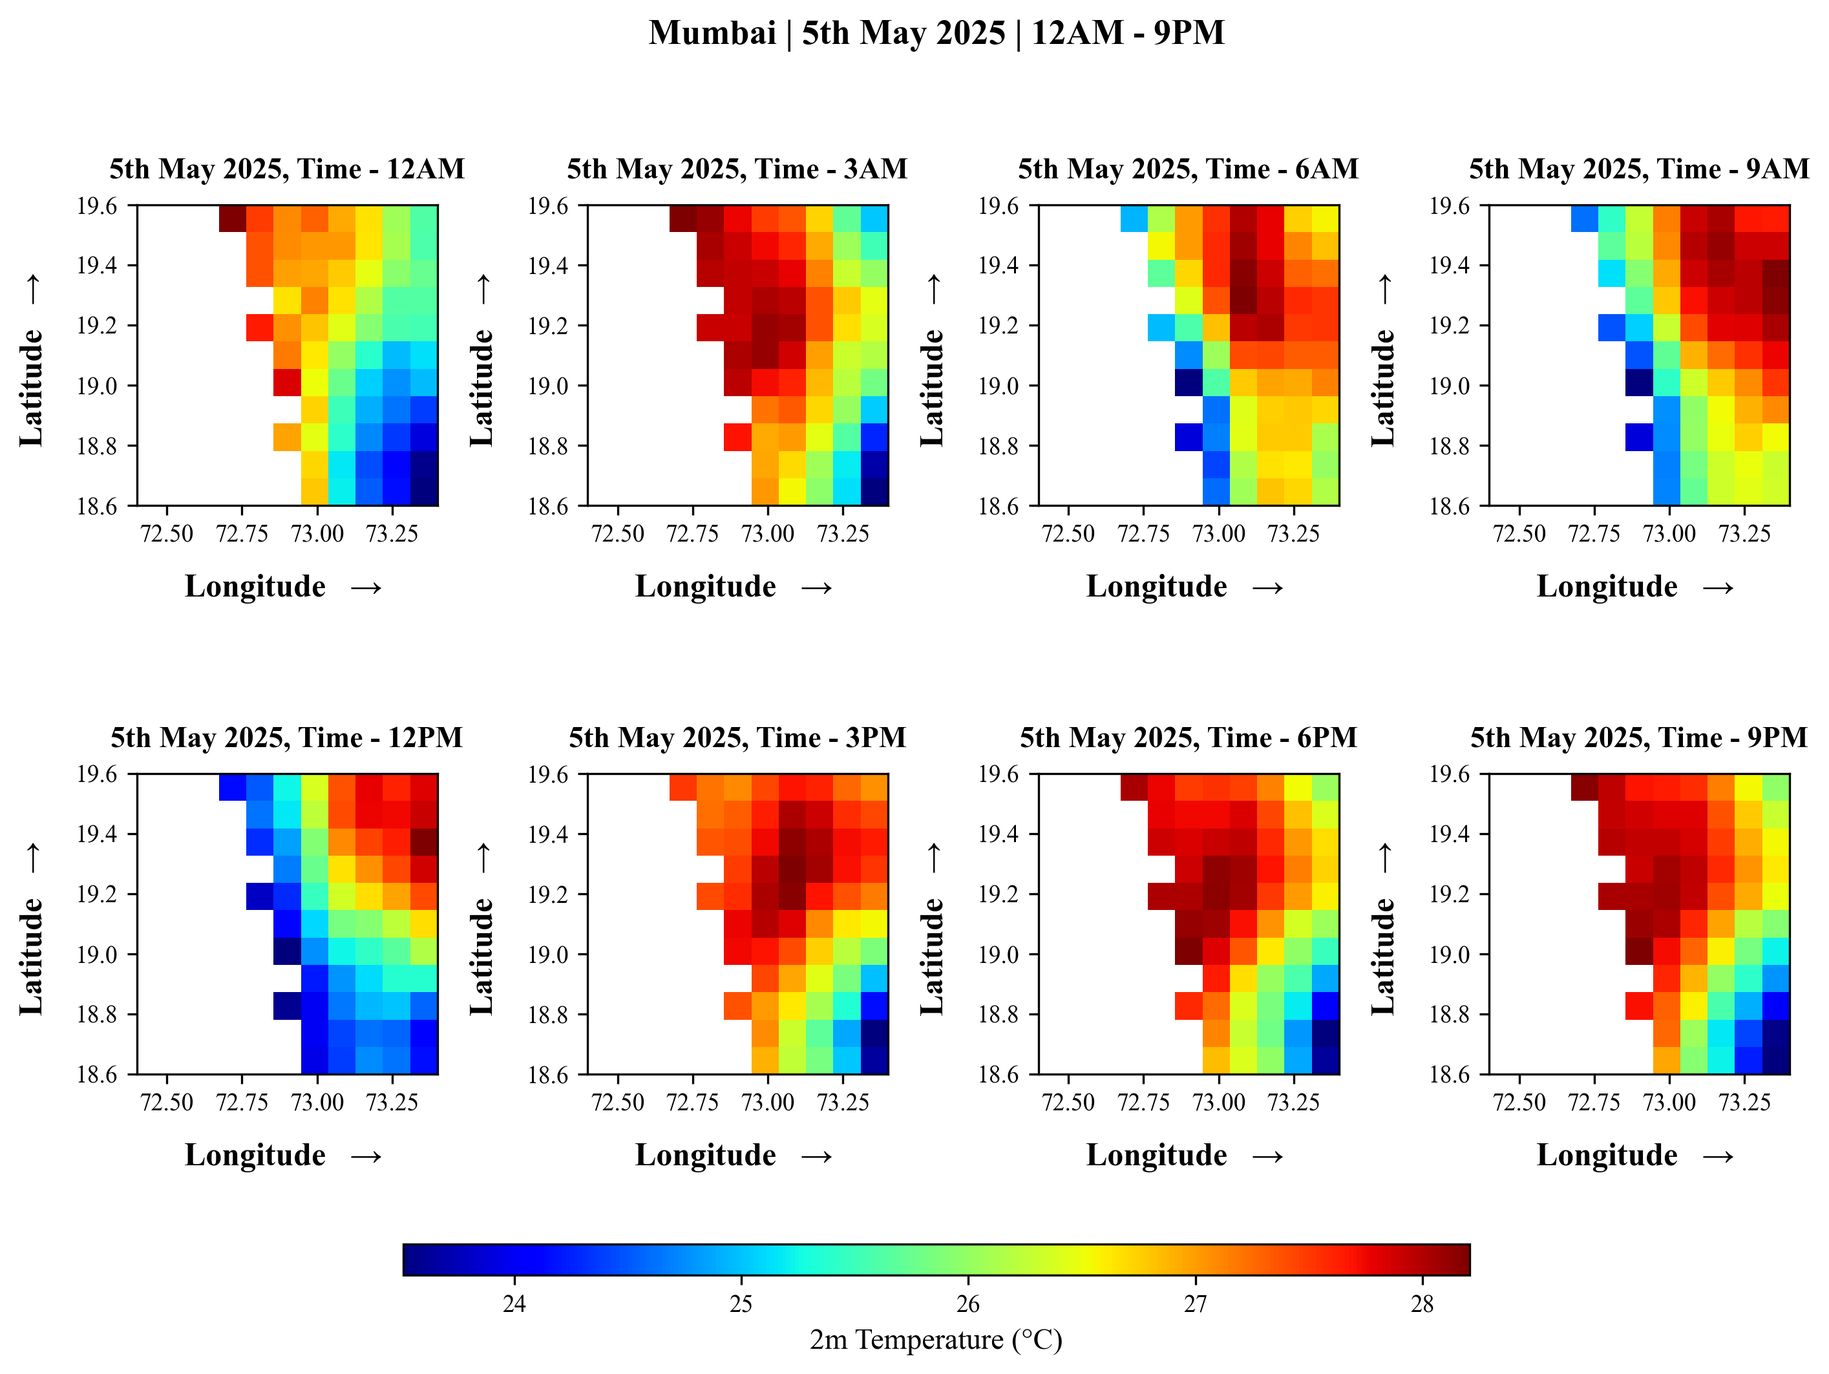
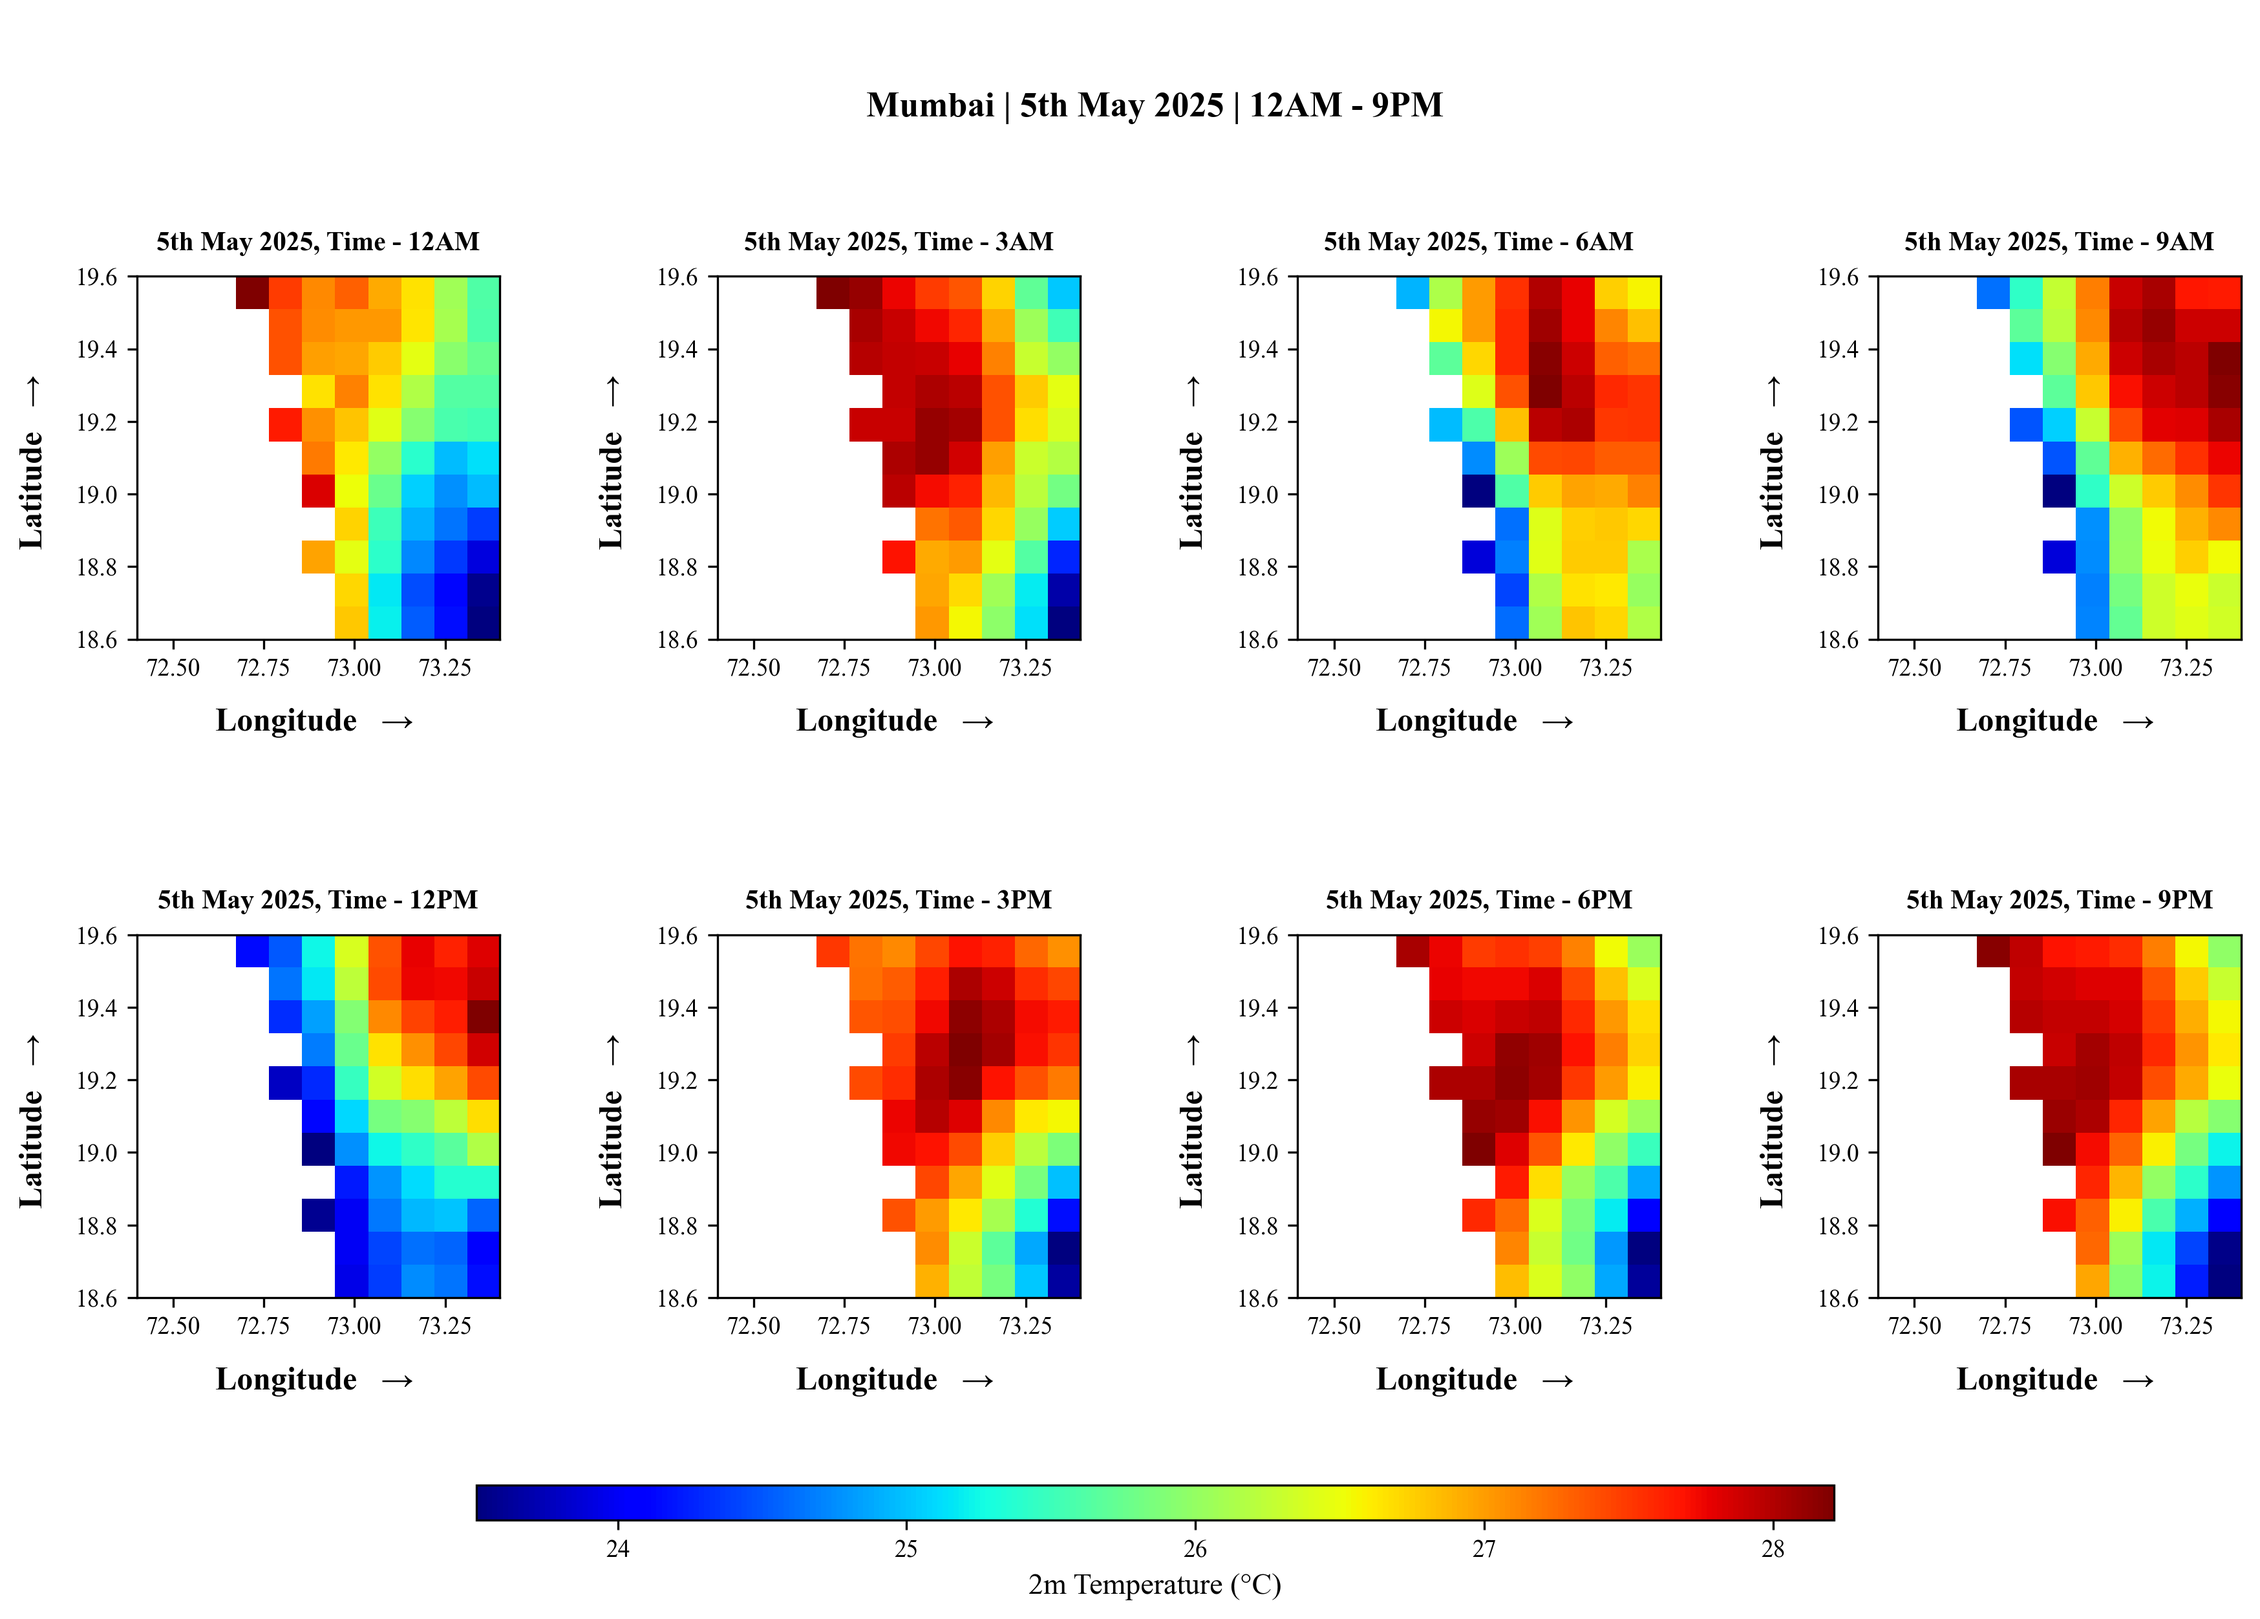
Added code for b/w plot generation

diff --git a/new_heatmap_color.py b/new_heatmap_color.py
@@ -1,0 +1,102 @@
+import matplotlib.pyplot as plt
+from netCDF4 import Dataset, num2date
+import numpy as np
+
+# Set a clean, professional font
+plt.rcParams["font.family"] = "Times New Roman"
+
+
+# Load dataset
+nc_path = "t2m_2025_May_1-5/data_mumbai.nc"
+ds = Dataset(nc_path)
+
+# Read variables
+t2m = ds.variables["t2m"][:]  # (time, lat, lon)
+lats = ds.variables["latitude"][:]
+lons = ds.variables["longitude"][:]
+times = ds.variables["valid_time"]
+
+# Convert time to datetime objects
+time_units = times.units
+time_calendar = times.calendar if hasattr(times, "calendar") else "standard"
+time_values = num2date(times[:], units=time_units, calendar=time_calendar)
+
+# Convert temperature from K to °C
+t2m_celsius = t2m - 273.15
+
+# Flip latitude if needed (north at top)
+if lats[0] > lats[-1]:
+    lats = lats[::-1]
+    t2m_celsius = t2m_celsius[:, ::-1, :]
+
+
+# Function to get correct day suffix
+def get_day_suffix(day):
+    if 11 <= day <= 13:
+        return "th"
+    last_digit = day % 10
+    return {1: "st", 2: "nd", 3: "rd"}.get(last_digit, "th")
+
+
+# Plotting
+for day in range(5):
+    fig, axes = plt.subplots(2, 4, figsize=(14, 9))  # Reduced heatmap size
+    axes = axes.flatten()
+
+    start_idx = day * 24
+    end_idx = start_idx + 21
+    start_time_str = time_values[start_idx].strftime("%I%p").lstrip("0").upper()
+    end_time_str = time_values[end_idx].strftime("%I%p").lstrip("0").upper()
+
+    for i in range(8):
+        idx = start_idx + i * 3
+        ax = axes[i]
+
+        im = ax.imshow(
+            t2m_celsius[idx],
+            cmap="jet",
+            origin="lower",
+            extent=[lons.min(), lons.max(), lats.min(), lats.max()],
+        )
+
+        # Subplot title with extra padding
+        dt = time_values[idx]
+        hour_12 = dt.strftime("%I%p").lstrip("0").upper()
+        day_num = dt.day
+        suffix = get_day_suffix(day_num)
+        title = f"{day_num}{suffix} May 2025, Time - {hour_12}"
+
+        ax.set_title(
+            title, fontsize=10, pad=10, fontweight="bold"
+        )  # Added vertical padding
+        ax.set_xlabel("Longitude   → ", fontsize=12, labelpad=10, fontweight="bold")
+        ax.set_ylabel("Latitude   → ", fontsize=12, labelpad=10, fontweight="bold")
+        ax.tick_params(axis="both", labelsize=9)
+
+    # Main title (single line, minimal)
+    day_num = time_values[start_idx].day
+    suffix = get_day_suffix(day_num)
+    fig.subplots_adjust(top=0.9)  # Try values between 0.8 and 0.9
+
+    fig.suptitle(
+        f"\n\nMumbai | {day_num}{suffix} May 2025 | {start_time_str} - {end_time_str}",
+        fontsize=13,
+        y=0.98,
+        fontweight="bold",
+    )
+
+    # Layout adjustments
+    plt.subplots_adjust(wspace=0.6, hspace=0.1, bottom=0.18)
+
+    # Colorbar
+    cbar_ax = fig.add_axes([0.25, 0.12, 0.5, 0.02])
+    cbar = fig.colorbar(im, cax=cbar_ax, orientation="horizontal")
+    cbar.set_label("2m Temperature (°C)", fontsize=11)
+    cbar.ax.tick_params(labelsize=9)
+
+    plt.savefig(
+        f"{day_num}{suffix}_May_color_8plots_3hrinterval.png",
+        dpi=300,
+        bbox_inches="tight",
+    )
+    # plt.show()

diff --git a/new_heatmap.py b/new_heatmap.py
@@ -40,7 +40,7 @@ def get_day_suffix(day):
 
 # Plotting
 for day in range(5):
-    fig, axes = plt.subplots(2, 4, figsize=(11, 8))  # Reduced heatmap size
+    fig, axes = plt.subplots(2, 4, figsize=(14, 9))  # Reduced heatmap size
     axes = axes.flatten()
 
     start_idx = day * 24
@@ -54,7 +54,7 @@ for day in range(5):
 
         im = ax.imshow(
             t2m_celsius[idx],
-            cmap="jet",
+            cmap="binary",
             origin="lower",
             extent=[lons.min(), lons.max(), lats.min(), lats.max()],
         )
@@ -67,7 +67,7 @@ for day in range(5):
         title = f"{day_num}{suffix} May 2025, Time - {hour_12}"
 
         ax.set_title(
-            title, fontsize=11, pad=10, fontweight="bold"
+            title, fontsize=10, pad=10, fontweight="bold"
         )  # Added vertical padding
         ax.set_xlabel("Longitude   → ", fontsize=12, labelpad=10, fontweight="bold")
         ax.set_ylabel("Latitude   → ", fontsize=12, labelpad=10, fontweight="bold")
@@ -76,15 +76,17 @@ for day in range(5):
     # Main title (single line, minimal)
     day_num = time_values[start_idx].day
     suffix = get_day_suffix(day_num)
+    fig.subplots_adjust(top=0.9)  # Try values between 0.8 and 0.9
+
     fig.suptitle(
-        f"Mumbai | {day_num}{suffix} May 2025 | {start_time_str} - {end_time_str}",
+        f"\n\nMumbai | {day_num}{suffix} May 2025 | {start_time_str} - {end_time_str}",
         fontsize=13,
-        y=0.93,
+        y=0.98,
         fontweight="bold",
     )
 
     # Layout adjustments
-    plt.subplots_adjust(wspace=0.5, hspace=0.1, bottom=0.18)
+    plt.subplots_adjust(wspace=0.6, hspace=0.1, bottom=0.18)
 
     # Colorbar
     cbar_ax = fig.add_axes([0.25, 0.12, 0.5, 0.02])
